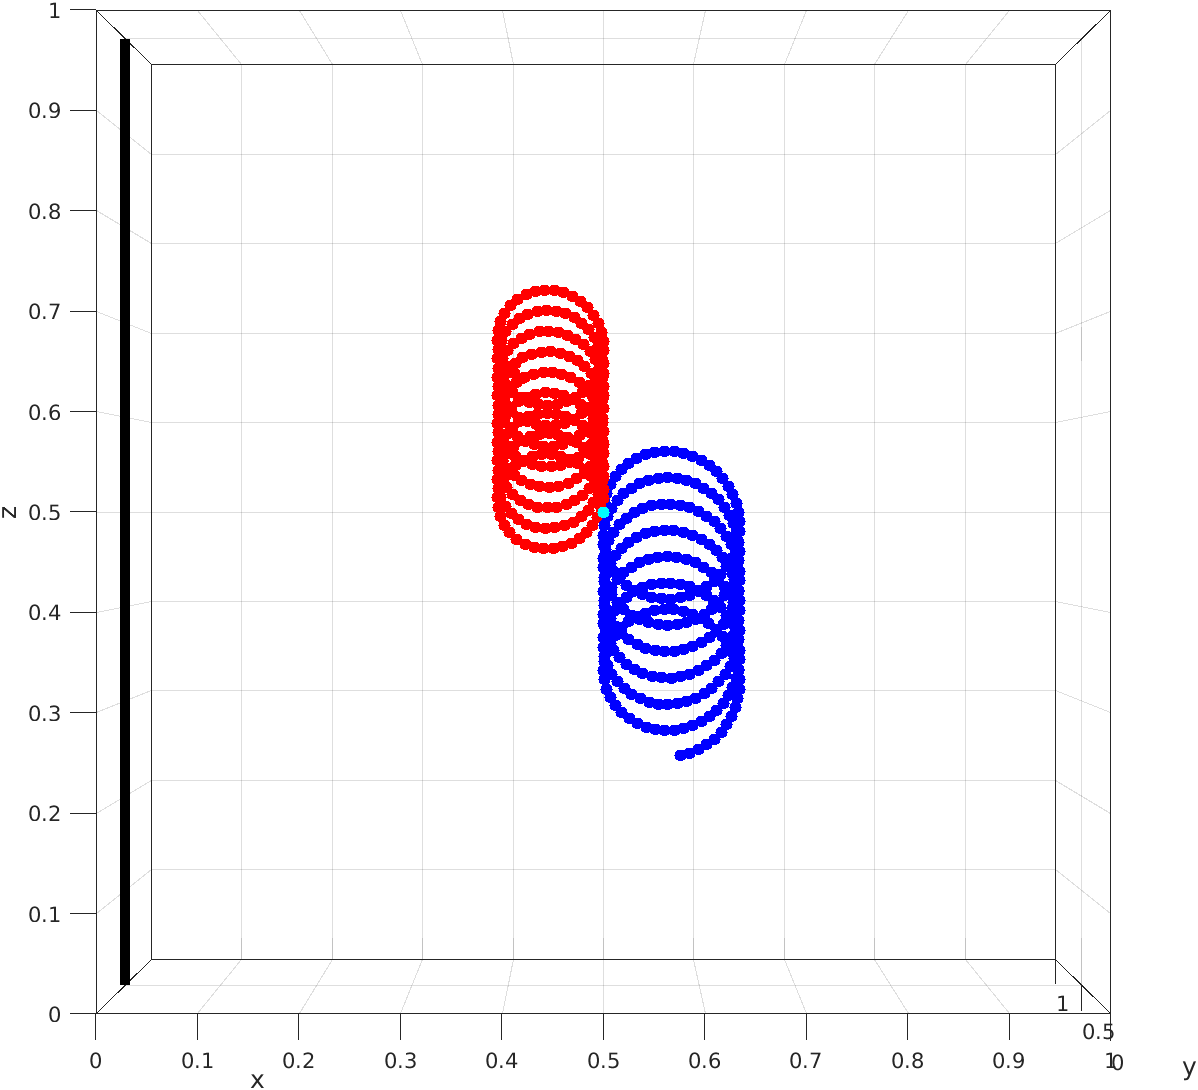
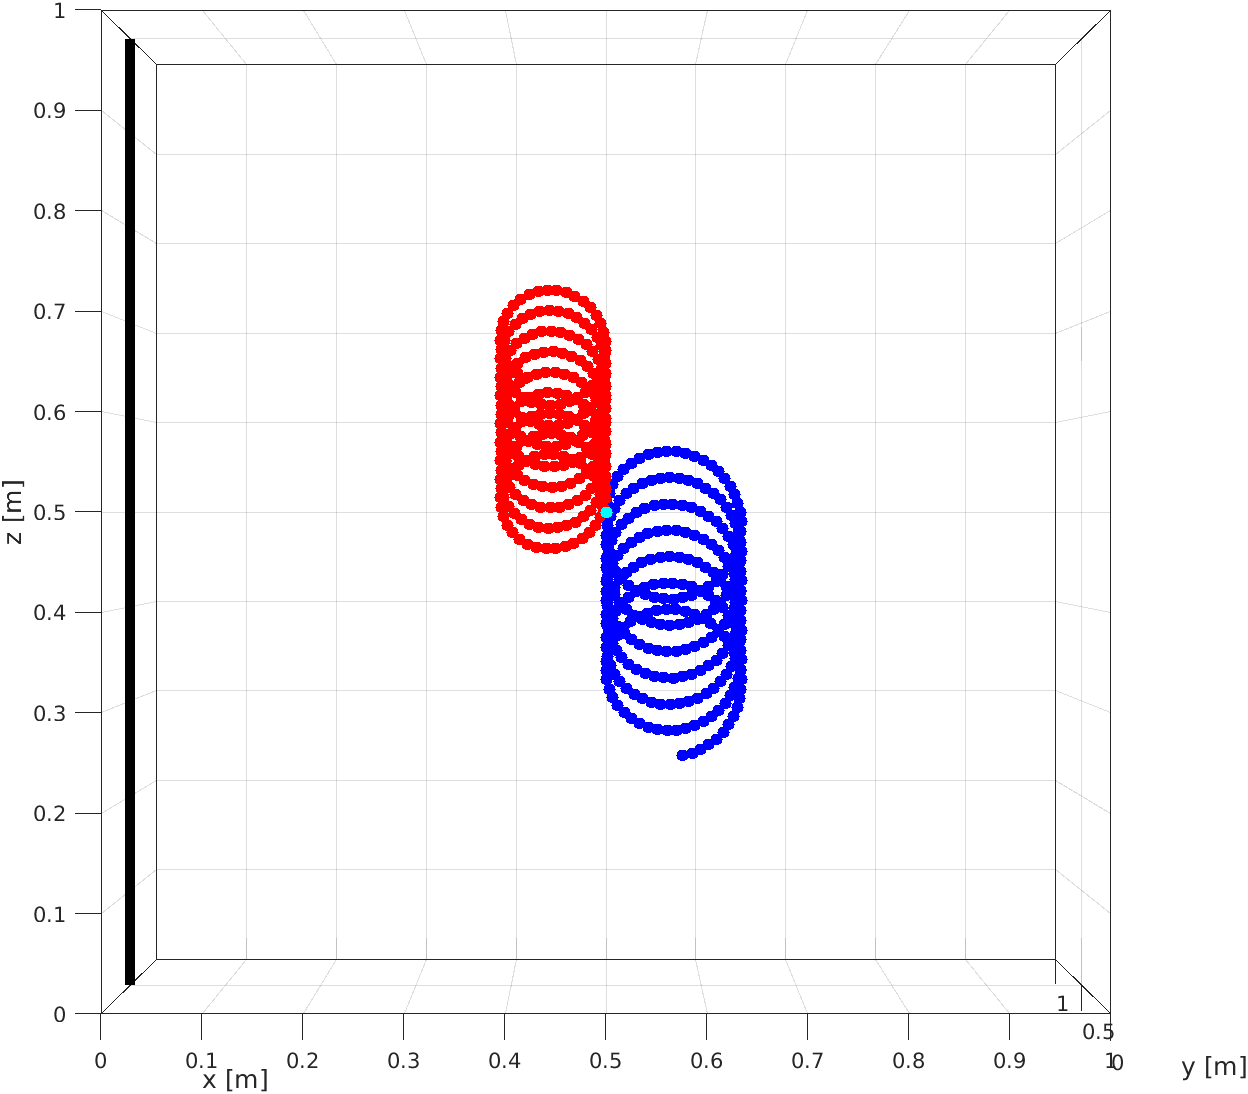
Units on axis

diff --git a/main.m b/main.m
@@ -1,11 +1,11 @@
 clf, clearvars, clc
 DT = 0.1;  % Time step
-T = 30;  % Total time for simulation, change between runs
+T = 300;  % Total time for simulation, change between runs
 PARTICLE_MASS = 1e-3;  % 1 g
 PARTICLE_CHARGE = 1e-9;  % 1 nC
 
 % Choose between "charge", "eDipole", "current" and "mDipole"
-TYPE = "charge";
+TYPE = "mDipole";
 
 % Toggle this to see shadows for all particles on the sides of the box and
 % shadows for field object.
@@ -105,8 +105,11 @@ clf(fig);
 ax = gca;
 ax = initialize_axes(ax);
 
-% Uncomment for overhead view
-view(-90,0)
+% Uncomment for xz-plane view
+% view(0,0)
+
+% Uncomment for yz-plane view
+% view(90,0)
 
 % Plot particles and field object
 field_obj = plot_field_obj(ax,field_obj,PLOT_SHADOWS);

diff --git a/initialize_axes.m b/initialize_axes.m
@@ -2,9 +2,9 @@ function ax = initialize_axes(ax)
 %INITIALIZE_AXES Default properties for axes ax
 ax.XLim = [0 1]; ax.YLim = [0 1]; ax.ZLim = [0 1];
 ax.XGrid = 'on'; ax.YGrid = 'on'; ax.ZGrid = 'on';
-ax.XLabel.String = 'x'; ax.XLabel.FontSize = 12;
-ax.YLabel.String = 'y'; ax.YLabel.FontSize = 12;
-ax.ZLabel.String = 'z'; ax.ZLabel.FontSize = 12;
+ax.XLabel.String = 'x [m]'; ax.XLabel.FontSize = 12;
+ax.YLabel.String = 'y [m]'; ax.YLabel.FontSize = 12;
+ax.ZLabel.String = 'z [m]'; ax.ZLabel.FontSize = 12;
 ax.View = [-45 30];
 ax.Box = 'on';
 ax.Projection = 'perspective';
